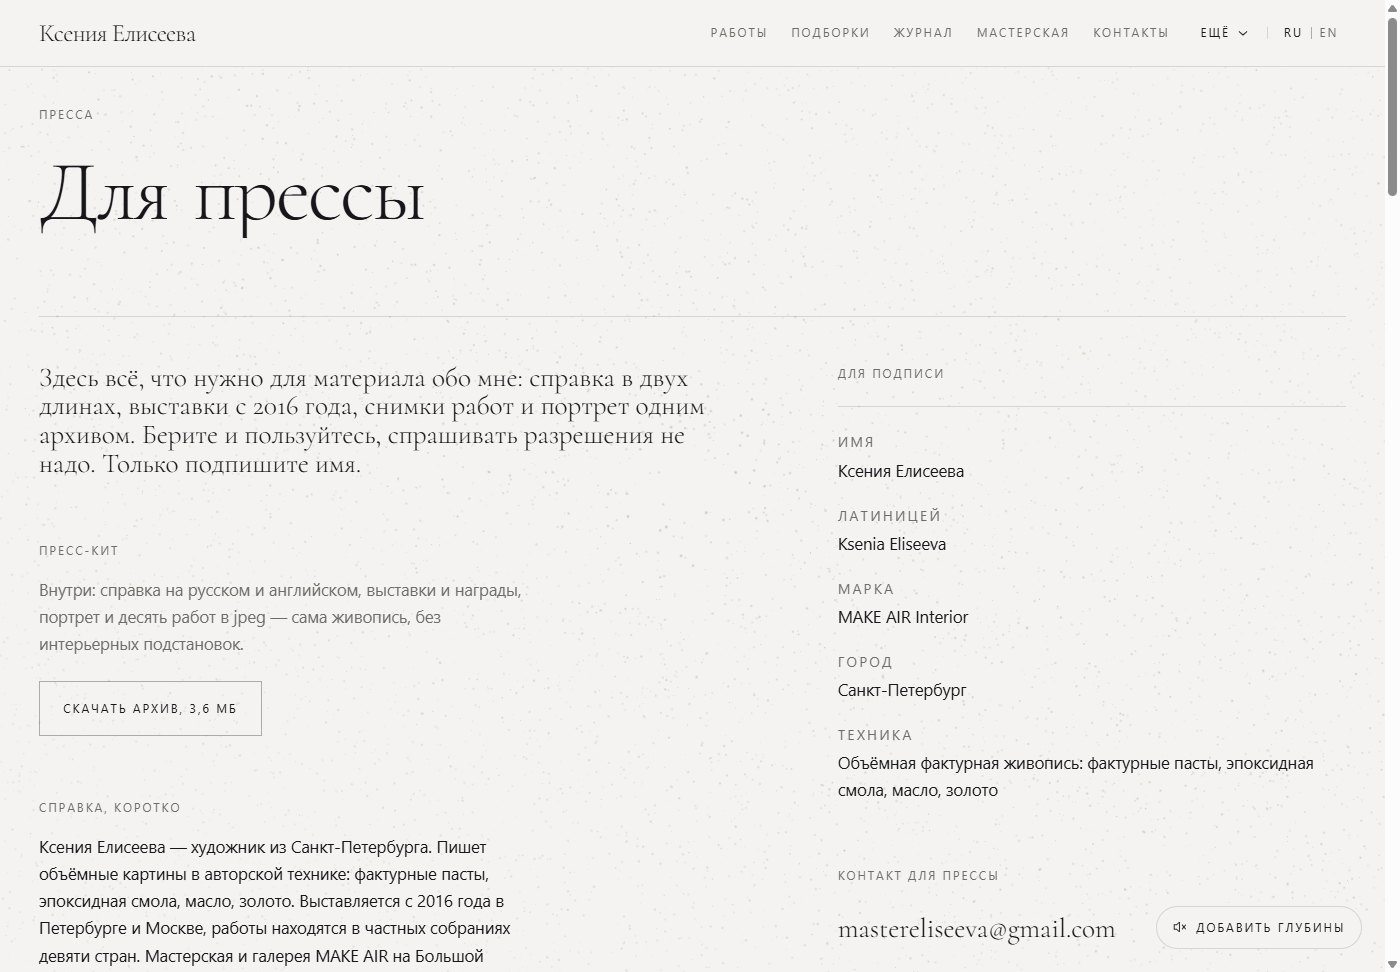
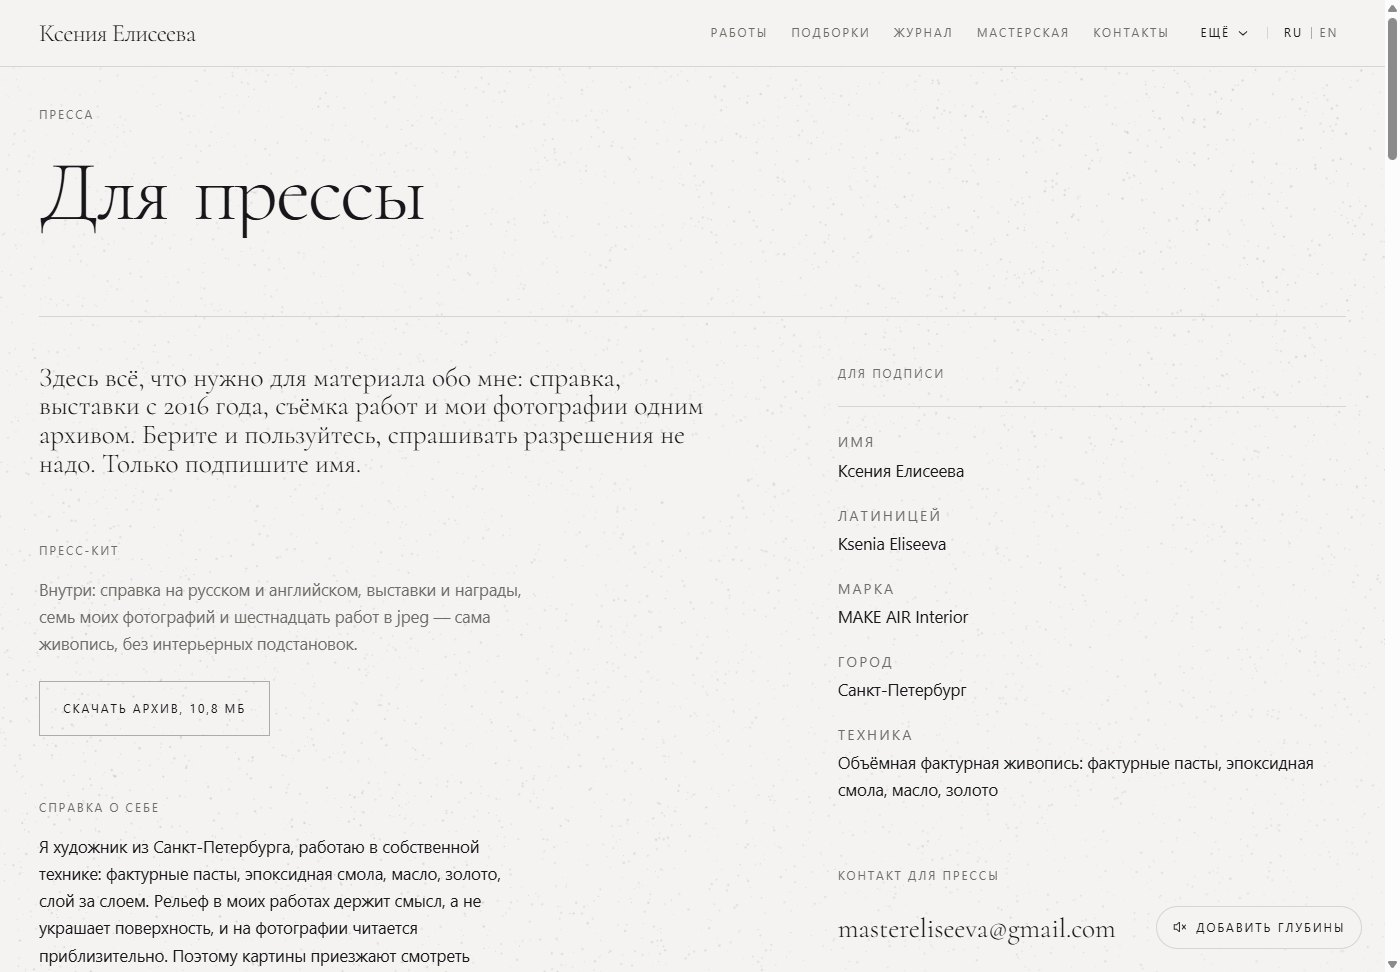
Отчёт: состав страницы прессы после правок
Архив 10,8 МБ вместо 3,6, шестнадцать работ и семь её фотографий. Справка одна
и от первого лица. Скриншот переснят.

diff --git a/index.html b/index.html
@@ -335,7 +335,7 @@ footer a{color:var(--mist)}
 
     <p><strong>Раздел всё равно сделан, но маленький — одна страница на двух языках.</strong> Работает она не как приманка, а как ответ тому, кто уже услышал вашу фамилию и набрал её в поиске. По запросу «Ксения Елисеева художник» все десять мест первой страницы Яндекса заняты вами, но первым стоит группа ВКонтакте, а нового сайта в выдаче нет вовсе. У группы ВК нет ни биографии, ни списка выставок, ни контакта для прессы — а редакции нужны именно они.</p>
 
-    <p>На странице: пресс-кит одним архивом (3,6 МБ — справка на двух языках, выставки и награды, портрет и десять работ в jpeg без интерьерных подстановок), справка в двух длинах, факты для подписи под материалом, публикации о вас, условия съёмки в мастерской и контакт для прессы отдельной строкой.</p>
+    <p>На странице: пресс-кит одним архивом (10,8 МБ — справка на двух языках, выставки и награды, семь ваших фотографий и шестнадцать работ в jpeg без интерьерных подстановок), справка о себе, факты для подписи под материалом, публикации о вас, шесть кадров с выставок и из мастерской, условия съёмки и контакт для прессы отдельной строкой. Весь текст от первого лица — как и везде на сайте.</p>
 
     <div class="note">
       <b>Заодно нашёлся третий ваш сайт.</b> <code>eliseevalab.ru</code> — «Мастерская аэрографии Ксении Елисеевой», третья строка в выдаче по вашему имени. В проекте о нём не было ни строки: мы знали про два старых сайта, Tilda и второй, а этот живёт сам по себе и в разметке с новым сайтом не связан. Для поиска это пока два разных человека с одной фамилией. Решать, что с ним делать, вам — влить в новый сайт или оставить отдельно и связать.
